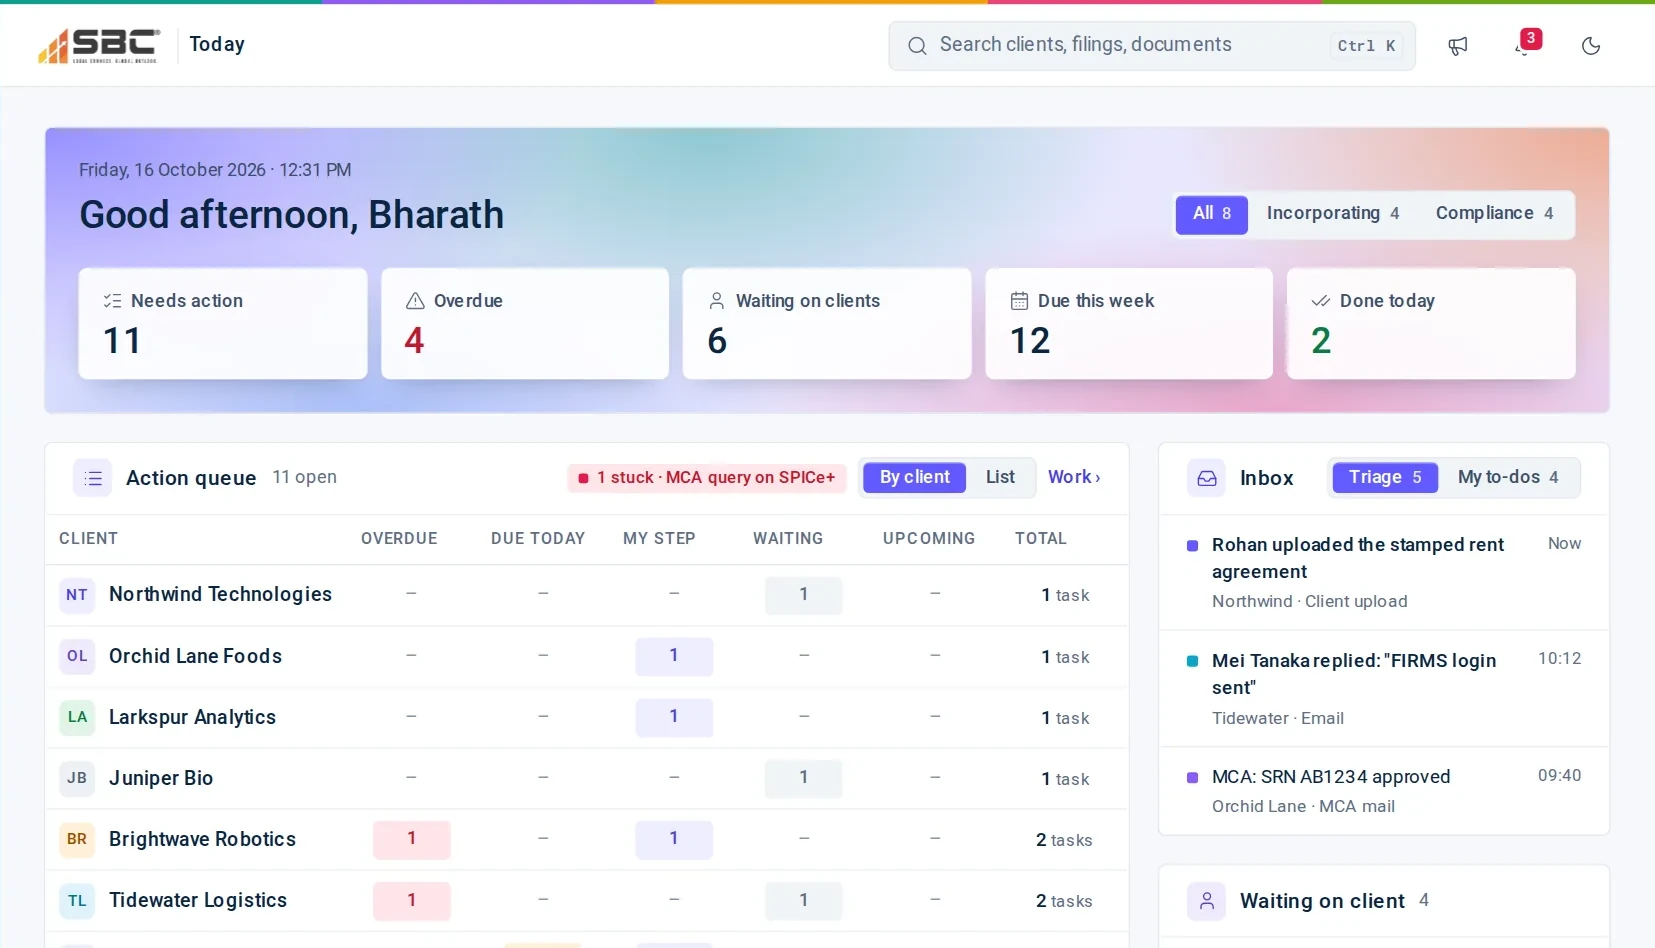
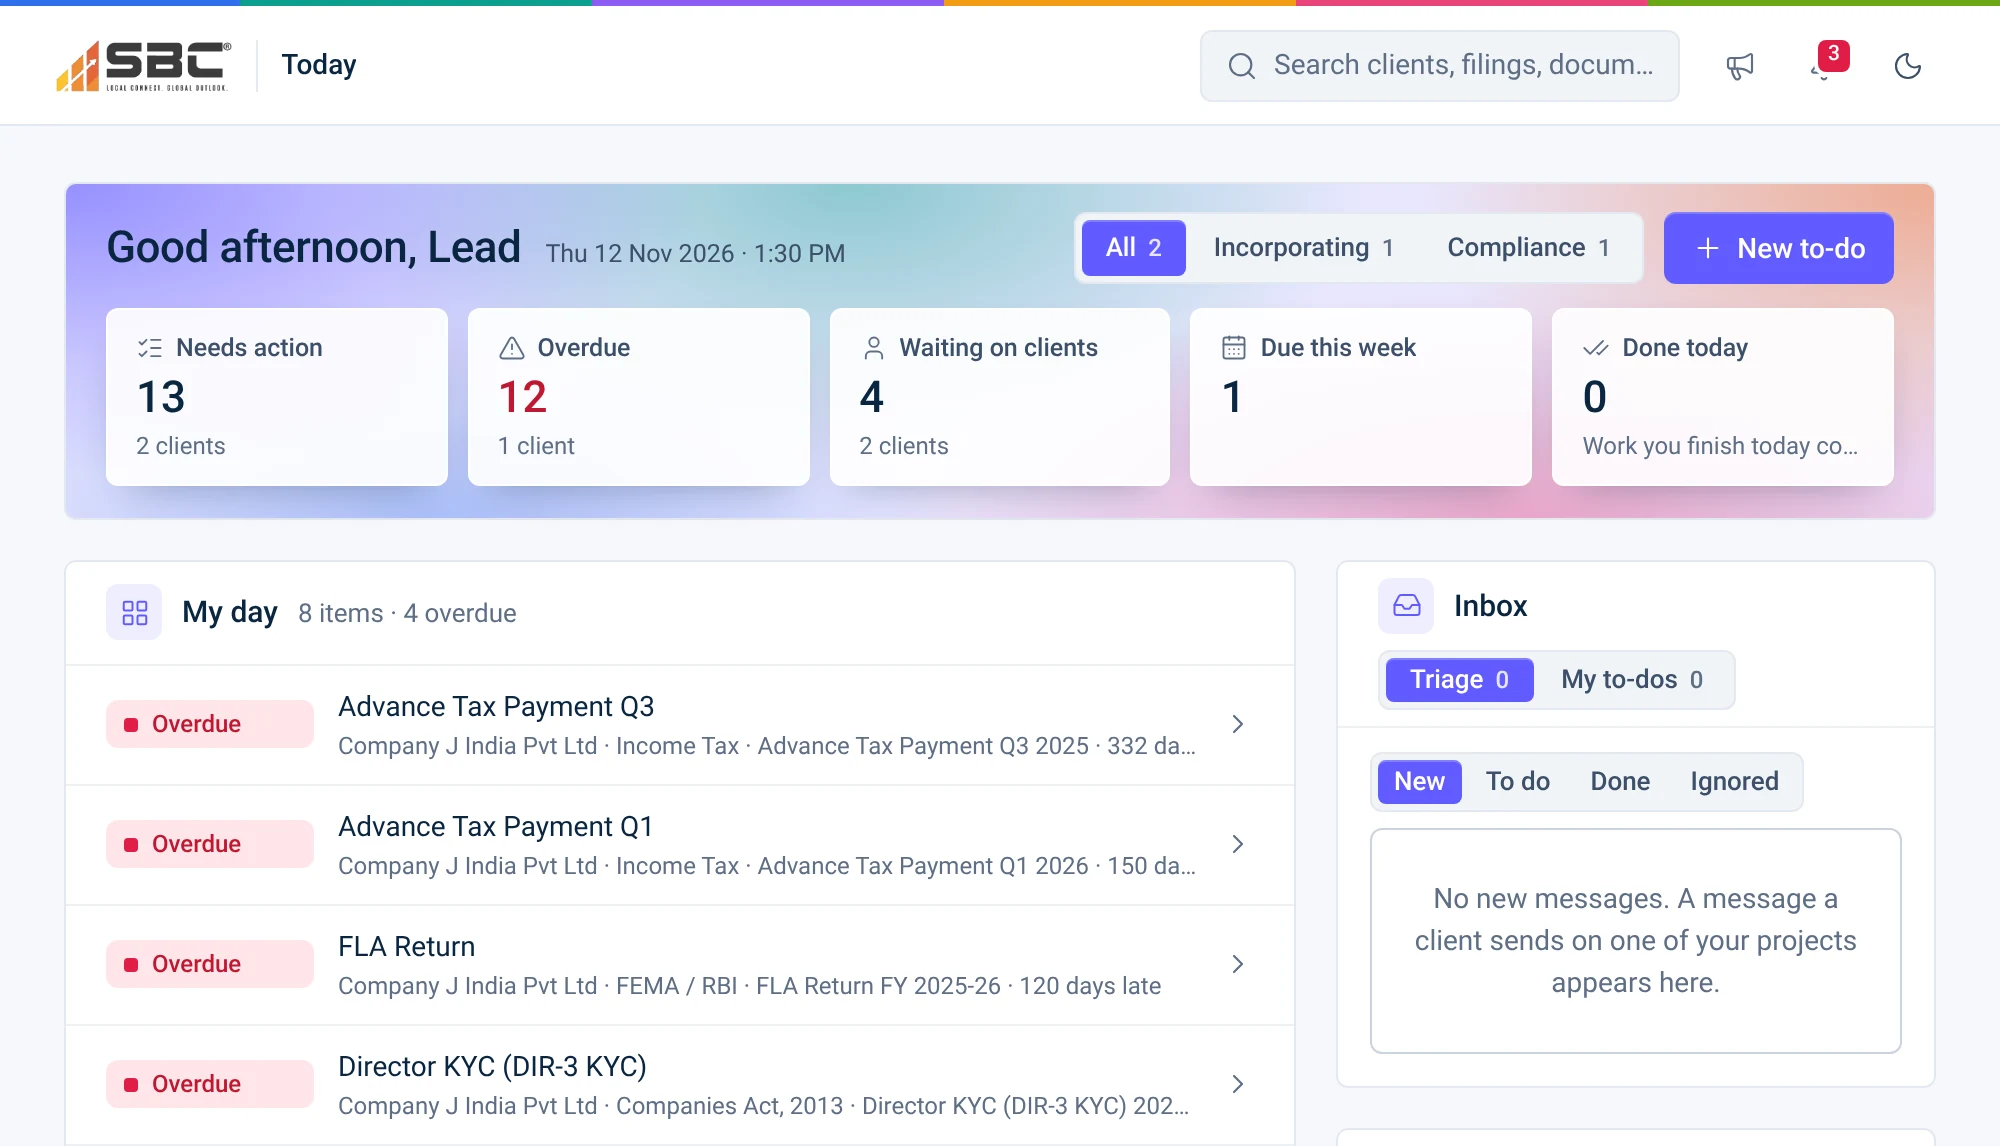
Landing: screenshots with no official information, retaken from anonymous demo data
All ten product screenshots are retaken from a local app whose demo data
has been made anonymous, so no real company, person, address or identifier
appears on the landing page.

- scripts/landing-screenshots/sanitize.mjs rewrites every text and JSON
  column of a local database (it refuses anything not on localhost):
  companies become "Your Company" and "Company B" onwards, staff "Lead A",
  "Manager A", "Admin A" and "Partner", client contacts "Contact 1"
  onwards, directors "Director" plus a letter; addresses become sample
  addresses; PAN, CIN, TAN, DIN, passport, phone, Aadhaar-shaped numbers,
  acknowledgements and registration codes become zeroed samples.
- scripts/landing-screenshots/capture.cjs signs in as each role and
  captures each page at twice the pixel density. The sidebar is cropped
  off, the app's top bar with the SBC logo stays, the calendars show the
  month grid alone and Ask VCFO shows the chat panel alone. The README
  says how to retake them.
- The client home is shown in its Metro view, and the filings shot now
  has the same proportions as the project lead calendar beside it, so
  the two cards line up. Alt text describes each new screen.

Claude-Session: https://claude.ai/code/session_01KHc5oRkLUo2v3QsnkyYsqN

diff --git a/src/components/marketing/landing/LandingScreen.tsx b/src/components/marketing/landing/LandingScreen.tsx
@@ -158,7 +158,7 @@ export function LandingScreen({ fontClass = "" }: { fontClass?: string }) {
             <div className="float float-a" data-app="filings" aria-label="Book a demo to see the filings screen" role="button" aria-haspopup="dialog" tabIndex={0}><span className="pill pill-positive">Filed</span><span className="t"><span>GSTR-3B, September</span><span className="mono">Acknowledgement attached</span></span></div>
             <div className="float float-b" data-app="inc-step-7" aria-label="Book a demo to see step 7, registered office address" role="button" aria-haspopup="dialog" tabIndex={0}><span className="pill pill-highlight">Needs you</span><span className="t"><span>Utility bill for the office</span><span className="mono">Due 9 Oct</span></span></div>
             <div className="frame" data-app="incorporation" aria-label="Book a demo to see the incorporation screen" role="button" aria-haspopup="dialog" tabIndex={0}>
-              <img src="/landing/hero-incorporation.webp" alt={"VCFO Suite client portal, incorporation view: days to the Certificate of Incorporation, steps done, the current steps with who holds each one, this week's tasks and the incorporation status."} width="1986" height="1138" fetchPriority="high" />
+              <img src="/landing/hero-incorporation.webp" alt={"VCFO Suite client portal, incorporation view: days to the Certificate of Incorporation, steps done, the current steps with who holds each one, what is up next and the incorporation status."} width="2400" height="1376" fetchPriority="high" />
             </div>
           </div>
         </div>
@@ -426,17 +426,17 @@ export function LandingScreen({ fontClass = "" }: { fontClass?: string }) {
             <div className="reveal">
               <h3 className="h3">The same year, inside the portal</h3>
               <div className="frame" data-app="compliances" aria-label="Book a demo to see the compliance calendar" role="button" aria-haspopup="dialog" tabIndex={0}>
-                <img src="/landing/calendar-client.webp" alt={"Compliance calendar month view: a grid of the month with each statutory filing on its due date."} width="1100" height="769" />
+                <img src="/landing/calendar-client.webp" alt={"Compliance calendar month view: a grid of the month with each statutory filing on its due date."} width="2268" height="1258" />
               </div>
               <p className="caption"><span className="icon"><Ic><path d="M8 2v3" /><path d="M16 2v3" /><rect x="3" y="3" width="18" height="18" rx="2" /><path d="M3 9h18" /><path d="M8 13h.01" /><path d="M12 13h.01" /><path d="M16 13h.01" /><path d="M8 17h.01" /><path d="M12 17h.01" /><path d="M16 17h.01" /></Ic></span>What the client sees: one month at a time, filtered by regulator, with the next deadline counting down and every filing after it in a list.</p>
             </div>
             <div className="cal-two reveal">
               <figure className="card" data-stagger style={st("--i:0")}>
-                <div className="frame" data-app="filings" aria-label="Book a demo to see the filings screen" role="button" aria-haspopup="dialog" tabIndex={0}><img src="/landing/filings-client.webp" alt="Client filings view for a quarter: donut of filed, due soon, overdue and upcoming, bars by area, and a table with due date, filing, frequency, status and proof." width="1324" height="606" /></div>
+                <div className="frame" data-app="filings" aria-label="Book a demo to see the filings screen" role="button" aria-haspopup="dialog" tabIndex={0}><img src="/landing/filings-client.webp" alt={"Client filings view: filings by month for the financial year, progress by area, and each filing with its status and acknowledgement."} width="2000" height="1622" /></div>
                 <figcaption><b>Filings, with proof.</b> Each row carries its due date, frequency, status word and the acknowledgement once filed. Overdue is a word in red, never a surprise.</figcaption>
               </figure>
               <figure className="card" data-stagger style={st("--i:1")}>
-                <div className="frame" data-app="lead-compliances" aria-label="Book a demo to see the project lead calendar" role="button" aria-haspopup="dialog" tabIndex={0}><img src="/landing/calendar-lead.webp" alt={"Project lead's compliance calendar month view: the statutory filings of every company on their due dates."} width="886" height="618" /></div>
+                <div className="frame" data-app="lead-compliances" aria-label="Book a demo to see the project lead calendar" role="button" aria-haspopup="dialog" tabIndex={0}><img src="/landing/calendar-lead.webp" alt={"Project lead's compliance calendar month view: the statutory filings of every company on their due dates."} width="1556" height="1262" /></div>
                 <figcaption><b>The firm&apos;s side.</b> The project lead sees every statutory date across every company, grouped by day, with a reminder button on each.</figcaption>
               </figure>
             </div>
@@ -508,19 +508,19 @@ export function LandingScreen({ fontClass = "" }: { fontClass?: string }) {
             </div>
             <div className="tabpanel">
               <div className="frame" role="tabpanel" id="panel-client" aria-labelledby="tab-client" hidden={tab !== "client"} data-app="home">
-                <img src="/landing/portal-client.webp" alt={"Client portal home: the home card with five numbers, the incorporation steps with who holds each one, and what is needed from the client."} width="1655" height="948" />
+                <img src="/landing/portal-client.webp" alt={"Client portal home: the current stage, the next step with its due date, the journey as a line of steps, and what is needed from the client."} width="2000" height="1146" />
               </div>
               <div className="frame" role="tabpanel" id="panel-lead" aria-labelledby="tab-lead" hidden={tab !== "lead"} data-app="lead-home">
-                <img src="/landing/portal-lead.webp" alt={"Project lead Today screen: the home card with five numbers, the action queue by company and the inbox."} width="1655" height="948" />
+                <img src="/landing/portal-lead.webp" alt={"Project lead Today screen: the home card with five numbers, the day's work by company and the inbox."} width="2000" height="1146" />
               </div>
               <div className="frame" role="tabpanel" id="panel-manager" aria-labelledby="tab-manager" hidden={tab !== "manager"} data-app="mgr-home">
-                <img src="/landing/portal-manager.webp" alt={"Manager Today screen: the home card with five numbers, team tasks with filters, approvals and workload by project lead."} width="1655" height="948" />
+                <img src="/landing/portal-manager.webp" alt={"Manager Today screen: the home card with five numbers and the team's day, overdue work first."} width="2000" height="1146" />
               </div>
               <div className="frame" role="tabpanel" id="panel-admin" aria-labelledby="tab-admin" hidden={tab !== "admin"} data-app="admin-home">
-                <img src="/landing/portal-admin.webp" alt={"Admin Today screen: the home card, the practice areas, clients with their stage, manager and health, and the managers' load."} width="1655" height="948" />
+                <img src="/landing/portal-admin.webp" alt={"Admin Today screen: clients, incorporating, in compliance, overdue and not on track, and the day's work across the firm."} width="2000" height="1146" />
               </div>
               <div className="frame" role="tabpanel" id="panel-super" aria-labelledby="tab-super" hidden={tab !== "super"} data-app="super-home">
-                <img src="/landing/portal-super.webp" alt={"Super admin overview: the home card with the firm's numbers, the practice areas side by side, top risks and clients needing attention."} width="1655" height="948" />
+                <img src="/landing/portal-super.webp" alt={"Super admin overview: the firm's numbers, incorporation progress, registrations and this month's compliances."} width="2000" height="1146" />
               </div>
             </div>
           </div>
@@ -533,7 +533,7 @@ export function LandingScreen({ fontClass = "" }: { fontClass?: string }) {
           <div className="ask">
             <div className="reveal">
               <div className="panel" data-app="home-chat" aria-label="Book a demo to try Ask VCFO" role="button" aria-haspopup="dialog" tabIndex={0}>
-                <img src="/landing/ask-vcfo.webp" alt={"Ask VCFO panel inside the client portal, answering from the client's own project data, with suggested questions."} width="779" height="1150" />
+                <img src="/landing/ask-vcfo.webp" alt={"Ask VCFO panel inside the client portal, answering from the client's own project data, with suggested questions."} width="760" height="1120" />
               </div>
             </div>
             <div className="reveal">

diff --git a/docs/context/STATE.md b/docs/context/STATE.md
@@ -317,7 +317,7 @@ Built and tested (unit tests, typecheck, and the flows below on a local build):
 - **Projects:** PR-01 name field focus; PR-02 "Download project (ZIP)" for the Lead, Manager and Admin. Since the download pop-up below, it opens that pop-up with every ready document ticked; the old `/project-zip` route and `src/lib/projects/project-zip.ts` are gone.
 - **Preview and download icons:** each row of the "SPICe+ attachments" card on the staff project page has an eye (preview) and a download icon over that row's own files, taken from the download catalog (`src/lib/document-downloads/spice-attachment-files.ts`). One file downloads as itself; several come as a ZIP. A row with no file yet has both icons off, and the tip says why. The project's Documents tab has the same eye. Both open the client portal's shared `DocViewer`, which on a staff page mounts in its own `.cp` host and covers the whole window. Files are served for preview by `GET /api/engagements/[id]/document-downloads/file?key=…`, with the same roles and catalog as the pop-up.
 - **Download documents (staff only):** a "Download documents" button on the project header (Lead, Manager, Admin, Super admin) and on the document pack page opens one pop-up. It shows every document by SPICe+ Part A, Part B, After incorporation and Project records (the PR-02 Excel files: answers, directors, subscribers, audit log). Part B is split into constitution, one folder per director, declarations, and each step's uploads. It has quick picks (each part, each director, uploads only, everything), Word files only for now (records in Excel), and folders or one flat folder. One file downloads as itself. Up to 25 files with no more than 5 uploads stream back as a ZIP; anything larger is made in the background with a link in the bell. Names follow GL-08. The code is in `src/lib/document-downloads/` and `app/api/engagements/[id]/document-downloads`, and access runs through `getDocPackInputs`, so a Lead only reaches their own engagements. The old "Download ready as .zip" button on the pack page is replaced; its route stays.
-- **Landing:** the live landing with its ten product screenshots (2026-11-12). The staff sidebar is cropped out of the nine portal screenshots (the left 17.25%, with the bottom trimmed by the same share so each frame keeps its proportions); Ask VCFO had no sidebar and is unchanged. LP-01 is back with dark as the default: a sun / moon toggle switches to the light theme, the choice is kept on the device, and the script in `app/page.tsx` applies it before the first paint. LP-02 and LP-03 stay reverted at the owner's request. To refresh a screenshot, crop it the same way and update its width and height in `LandingScreen.tsx`. The two calendar screenshots show only the month grid (no logo, no side panels), the client calendar sits beside its caption, and the screenshot alt text names no company or person. Section padding is 72px (48px on phones) and the incorporation story steps are 34vh, which removed the large empty bands.
+- **Landing:** dark by default with a light toggle (LP-01); LP-02 and LP-03 reverted at the owner's request. The ten product screenshots (2026-11-12) were retaken from a local app whose demo data is anonymous: no real company, person, address or identifier (companies read "Your Company" and "Company B" onwards, staff "Lead A", "Manager A", "Admin A", "Partner", references are zeroed). The SBC logo in the app's top bar stays; the sidebar is never shown; the calendars show the month grid alone. How to retake them: `scripts/landing-screenshots/README.md`. Section padding is 72px (48px on phones) and the incorporation story steps are 34vh.
 
 Notes:
 - **Background exports (GL-06, PR-02)** run in `after()` (`src/lib/exports/background-export.ts`). The file is kept in `export_files` and S3 `exports/` for 30 days, and only its maker can download it, through `/api/exports/[id]`. No migration was needed.

diff --git a/scripts/landing-screenshots/README.md b/scripts/landing-screenshots/README.md
@@ -1,0 +1,35 @@
+# Landing page screenshots
+
+The ten product screenshots on the landing page (`public/landing/*.webp`) are taken from a local
+copy of the app whose demo data has been made anonymous. No screenshot may show a real client,
+person, address or identifier. The SBC logo in the app's top bar stays; the sidebar never shows.
+
+## Retaking them
+
+1. Start a **local** database and load the demo data (`npm run infra:up`, `npm run db:migrate`,
+   `npm run db:seed`, `npm run db:seed-demo`). The migrations need the `pgvector` extension.
+2. Make the data anonymous. The script refuses any database that is not on localhost.
+
+   ```bash
+   DATABASE_URL=postgresql://vcfo:vcfo_local_dev@localhost:5432/vcfo node scripts/landing-screenshots/sanitize.mjs
+   ```
+
+   It rewrites every text and JSON column: company names become "Your Company" (the client the
+   landing follows) and "Company B" onwards; staff become "Lead A", "Manager A", "Admin A" and
+   "Partner"; client contacts become "Contact 1" onwards; directors become "Director" plus a letter;
+   addresses, PAN, CIN, LLPIN, DIN, phone numbers and short references become sample values.
+3. Run the app (`npm run dev`, with `node scripts/cp-css.mjs` first for the client portal CSS), then
+   capture:
+
+   ```bash
+   node scripts/landing-screenshots/capture.cjs http://localhost:3000 /tmp/landing-shots
+   ```
+
+   Each shot is taken at twice the pixel density. The window is widened by the sidebar's width and
+   the sidebar is cropped off, so the top bar and logo stay. The two calendars are cropped to the
+   month grid alone, and the Ask VCFO shot is the chat panel alone.
+4. Look at every image for a name, address or number that should not be there before you use it.
+   Convert each PNG to WebP (quality 88) into `public/landing/`, and set the matching `width`,
+   `height` and alt text in `src/components/marketing/landing/LandingScreen.tsx`.
+
+New demo data with new names needs a line in `sanitize.mjs` before the next capture.
